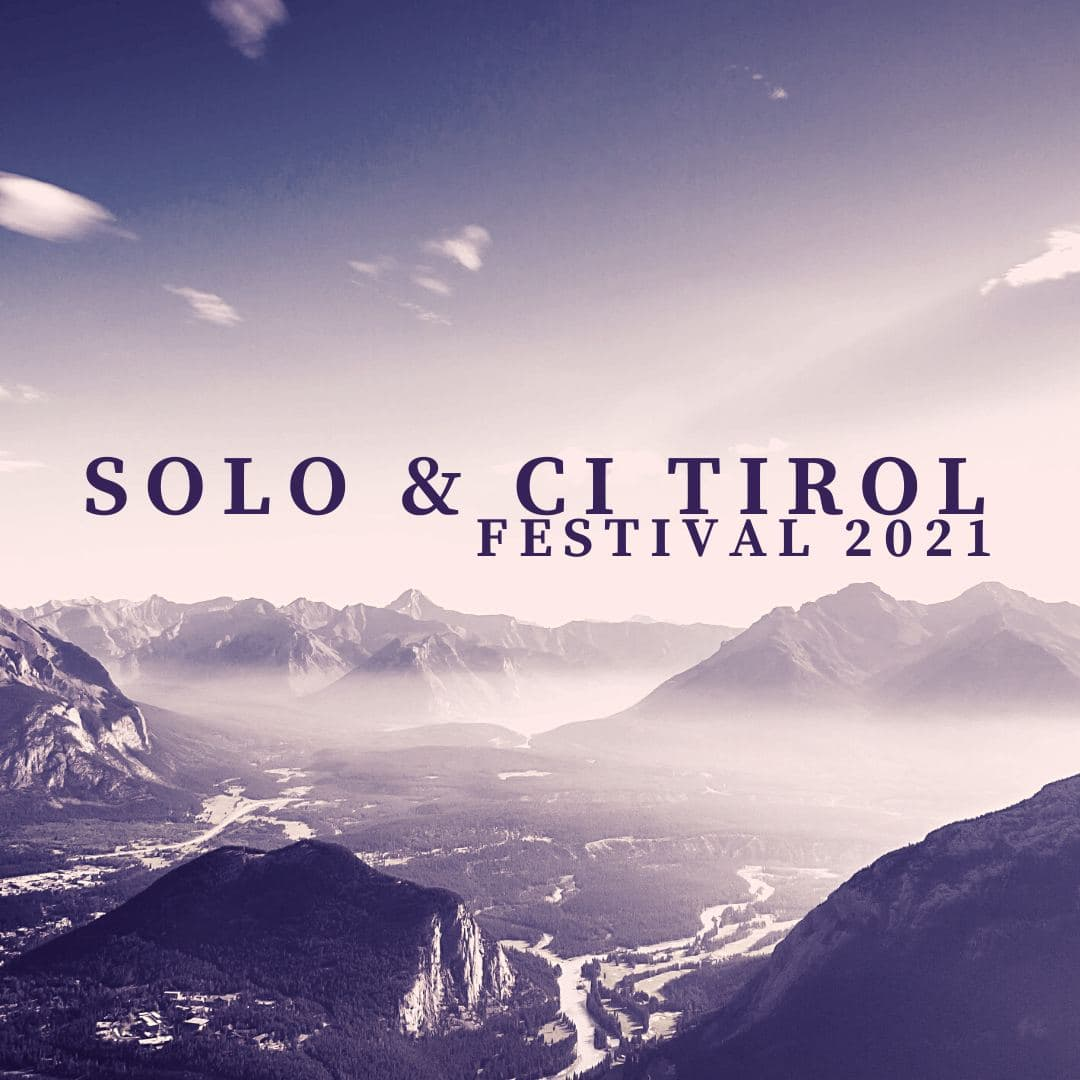
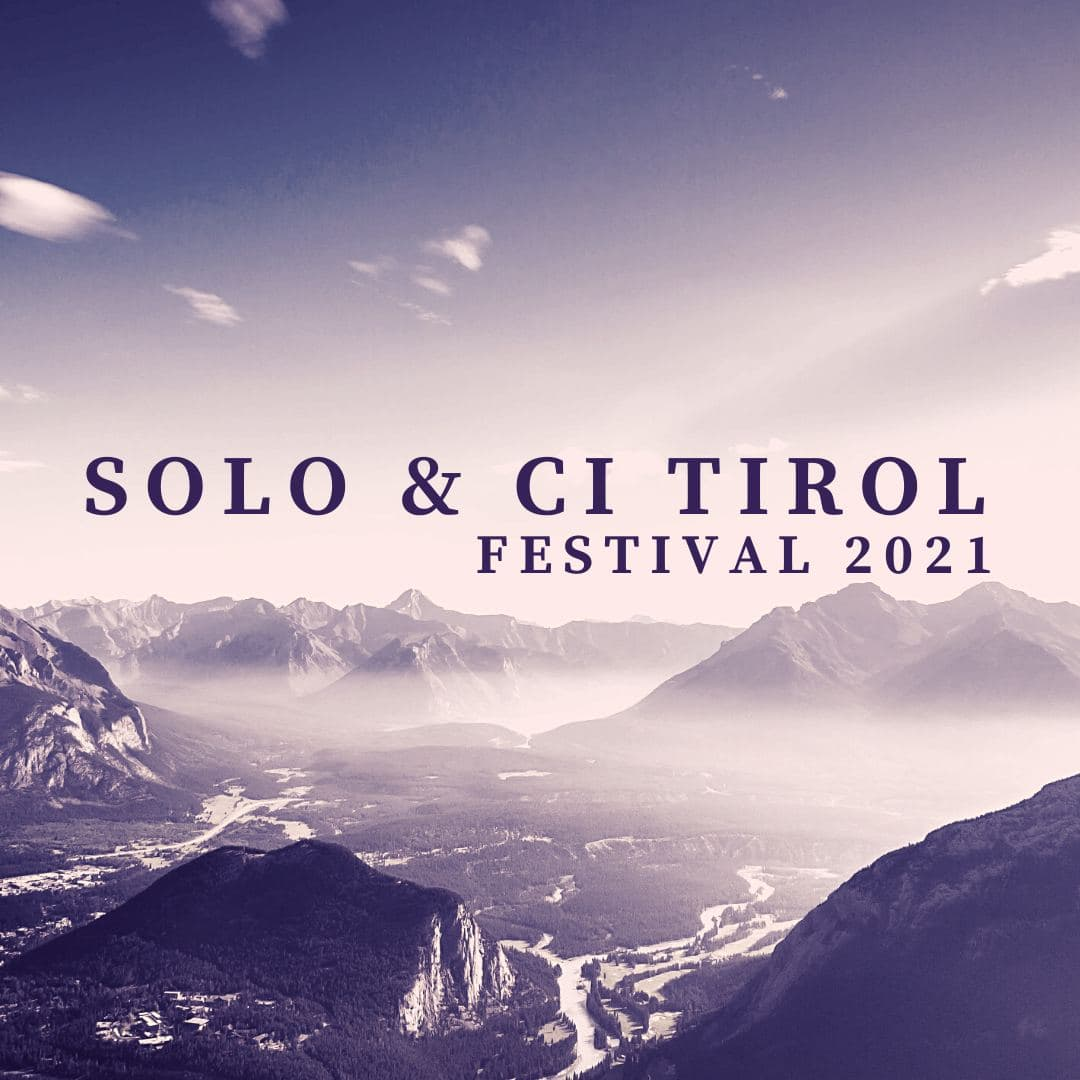
356

Changed region(s): [[0.4278, 0.4583, 0.9167, 0.55]]

diff --git a/pages/CITyrolFest2021.html b/pages/CITyrolFest2021.html
@@ -1,0 +1,113 @@
+<!DOCTYPE html>
+<html lang="en">
+<head>
+	<meta property="fb:admins" content="100008435109570"/>
+	<!-- Global site tag (gtag.js) - Google Analytics -->
+<script async src="https://www.googletagmanager.com/gtag/js?id=UA-159199974-5"></script>
+<!-- Yandex.Metrika counter -->
+<script type="text/javascript" >
+   (function(m,e,t,r,i,k,a){m[i]=m[i]||function(){(m[i].a=m[i].a||[]).push(arguments)};
+   m[i].l=1*new Date();k=e.createElement(t),a=e.getElementsByTagName(t)[0],k.async=1,k.src=r,a.parentNode.insertBefore(k,a)})
+   (window, document, "script", "https://mc.yandex.ru/metrika/tag.js", "ym");
+
+   ym(65202106, "init", {
+        clickmap:true,
+        trackLinks:true,
+        accurateTrackBounce:true,
+        webvisor:true
+   });
+</script>
+<noscript><div><img src="https://mc.yandex.ru/watch/65202106" style="position:absolute; left:-9999px;" alt="" /></div></noscript>
+<!-- /Yandex.Metrika counter -->
+</script>
+	<!-- Facebook Pixel Code -->
+	<script>
+	  !function(f,b,e,v,n,t,s)
+	  {if(f.fbq)return;n=f.fbq=function(){n.callMethod?
+	  n.callMethod.apply(n,arguments):n.queue.push(arguments)};
+	  if(!f._fbq)f._fbq=n;n.push=n;n.loaded=!0;n.version='2.0';
+	  n.queue=[];t=b.createElement(e);t.async=!0;
+	  t.src=v;s=b.getElementsByTagName(e)[0];
+	  s.parentNode.insertBefore(t,s)}(window, document,'script',
+	  'https://connect.facebook.net/en_US/fbevents.js');
+	  fbq('init', '2663555823885928');
+	  fbq('track', 'PageView');
+	</script>
+	<noscript><img height="1" width="1" style="display:none"
+	  src="https://www.facebook.com/tr?id=2663555823885928&ev=PageView&noscript=1"
+	/></noscript>
+<!-- End Facebook Pixel Code -->
+	<meta charset="UTF-8">
+	<title>
+		CI Tyrol Fest 2021</title>
+	<link href="https://fonts.googleapis.com/css?family=Open+Sans:400,400i" rel="stylesheet">
+	<link rel="shortcut icon" href="../gallery/lg.png" type="image/x-icon">
+	<link rel="stylesheet" href="../css/style.css">
+	<link rel="stylesheet" href="../css/css.css">
+	<link href="https://fonts.googleapis.com/css?family=Quicksand" rel="stylesheet">
+	<link rel="stylesheet" href="ism/css/my-slider.css"/>
+	<style>
+   p {
+    text-indent: 4%;
+    
+   }
+  </style>
+</head>
+<body style="background-color: #EBF5F8;"><div id="fb-root"></div>
+<script async defer crossorigin="anonymous" src="https://connect.facebook.net/ru_RU/sdk.js#xfbml=1&version=v8.0" nonce="fjDFZXUa"></script>
+	<header >
+		<a href = "../index.html">HOME</a>
+  		<a href = "projects.html">PROJECTS</a>
+  		<a href = "festival.html">FESTIVAL</a>
+  		<a href="partners.html">PARTNERS</a>
+  		<a href = "contacts.html">CONTACTS</a>
+  		<a href="events.html">EVENTS</a>
+	</header>
+	<nav id='h'>
+		<h5 style="text-align: center; margin-top: 0; margin-bottom: 0;"><img src="..\gallery\CITyrolFest2021\CITyrolFest2021.jpg" id="ph1"></h5>
+	</nav>
+	<main class="laloba">
+		<h1 style="text-align: center; font-size: 30pt; font-weight: bold;" id="title">August, 9th-15th, 2021 <br>
+Oberndorf in Tirol</h1>
+		<br>
+<p style="font-size: 25px;"> We are happy to announce our third annual "Solo & CI Tirol Festival 2021" which will take place in Austria this year. We believe that our mission is to maintain and strengthen physical and mental health that becomes vital as never before. <br><br>
+
+The "Solo & CI Festival" is a safe space for you, your friends and your family, where you will have a chance to get acquainted with contemporary dance techniques, contact tango, physical theater, classical contact improvisation and take part in daily jams. Being surrounded with spectacular Tyrolean landscapes, its impressive mountain ridges, virgin forests, and pure untouchable nature you will get a perfect chance to recharge your batteries and find new meanings and directions. <br><br>
+
+This year we have expanded our program and invited new world-famous teachers.<br><br>
+
+There is going to be an additional opportunity to participate in a closed group of physical theatre which will work on a mini-performance throughout the festival and present it on the last day. In case you are interested, please read the project description carefully and indicate your participation in this course during the registration. <br><br>
+
+"Solo & CI Tirol Festival" is thrilled to invite participants from 11 to 90 years old. <br><br>
+
+Please don't hesitate to contact us in case of any questions.</p> <br><br>
+<div style="margin-left: 20%; margin-right: 10%; padding:0;"><iframe width="80%" height="500" src="https://www.youtube.com/embed/FT2BrtClrKA" frameborder="0" allow="accelerometer; autoplay; clipboard-write; encrypted-media; gyroscope; picture-in-picture" allowfullscreen></iframe></iframe></div><br><hr><br>
+<h1 style="text-align: center; font-size: 30pt; font-weight: bold;" id="title">DANCE MENU</h1>
+		<br><hr>
+		<table width="100%" class="dancemenu">
+			<tr>
+				<td style="width: 33%">
+					<h1 style="text-align: center; font-size: 20pt; font-weight: bold;">Starter</h1>
+					<a href="contemporary.html"><img src="..\gallery\CITyrolFest2021\contemporary.jpg" style="width: 40%; margin-right: 5%; margin-left: 7%;" align="left"></a>
+					<a href="contemporary.html"><img src="..\gallery\CITyrolFest2021\contemporary.jpg" style="width: 40%;" align="left"></a>
+				</td>
+				<td style="width: 33%">
+					<h1 style="text-align: center; font-size: 20pt; font-weight: bold;">Main dish</h1>
+					<a href="contemporary.html"><img src="..\gallery\CITyrolFest2021\contemporary.jpg" style="width: 40%; margin-right: 5%; margin-left: 7%;" align="left"></a>
+					<a href="contemporary.html"><img src="..\gallery\CITyrolFest2021\contemporary.jpg" style="width: 40%;" align="left"></a>
+				</td>
+				<td style="width: 100%">
+					<h1 style="text-align: center; font-size: 20pt; font-weight: bold;">Dessert</h1>
+					<a href="contemporary.html"><img src="..\gallery\CITyrolFest2021\contemporary.jpg" style="width: 40%; margin-right: 5%; margin-left: 7%;" align="left"></a>
+					<a href="contemporary.html"><img src="..\gallery\CITyrolFest2021\contemporary.jpg" style="width: 40%;" align="left"></a>
+				</td>
+			</tr>
+		</table>
+
+	</main>
+	<footer>
+	<br>
+	<p style="text-align: center;">MOTION MODE DANCE THEATRE</p>
+	</footer>
+</body>
+</html>

diff --git a/pages/CITyrolFest2020.html b/pages/CITyrolFest2020.html
@@ -54,7 +54,7 @@
 </head>
 <body style="background-color: #EBF5F8;"><div id="fb-root"></div>
 <script async defer crossorigin="anonymous" src="https://connect.facebook.net/ru_RU/sdk.js#xfbml=1&version=v8.0" nonce="fjDFZXUa"></script>
-	<header style="position: fixed;">
+	<header>
 		<a href = "../index.html">HOME</a>
   		<a href = "projects.html">PROJECTS</a>
   		<a href = "festival.html">FESTIVAL</a>
@@ -63,7 +63,7 @@
   		<a href="events.html">EVENTS</a>
 	</header>
 	<nav id='h'>
-		<h5 style="text-align: center; "><img src="..\gallery\CI Tyrol Fest 2020.png" id="ph1"></h5>
+		<h5 style="text-align: center; margin-top: 0;"><img src="..\gallery\CI Tyrol Fest 2020.png" id="ph1"></h5>
 	</nav>
 
 	<main class="laloba">

diff --git a/css/style.css b/css/style.css
@@ -138,6 +138,18 @@ nav a:hover{
 	float: left;
 	padding: 10px;
 }
+.dancemenu img{
+	filter:grayscale(1);
+	transition: 0.5s;
+	transform:scale(1);
+}
+.dancemenu img:hover{
+	background: #e6eef0;
+	filter:grayscale(0);
+	transform:scale(1.1);
+	position: relative;
+	z-index: 1;
+}
 main {
 	font-family: 'Comfortaa', cursive;
 	background: #ebf5f7;
@@ -164,6 +176,9 @@ main a{
 	text-align: center;
 	font-size: 30px;
 	padding: 15px;
+}
+#title{
+	font-family: "Times New Roman";
 }
 .laloba{
 	font-family: 'Open Sans', sans-serif;
